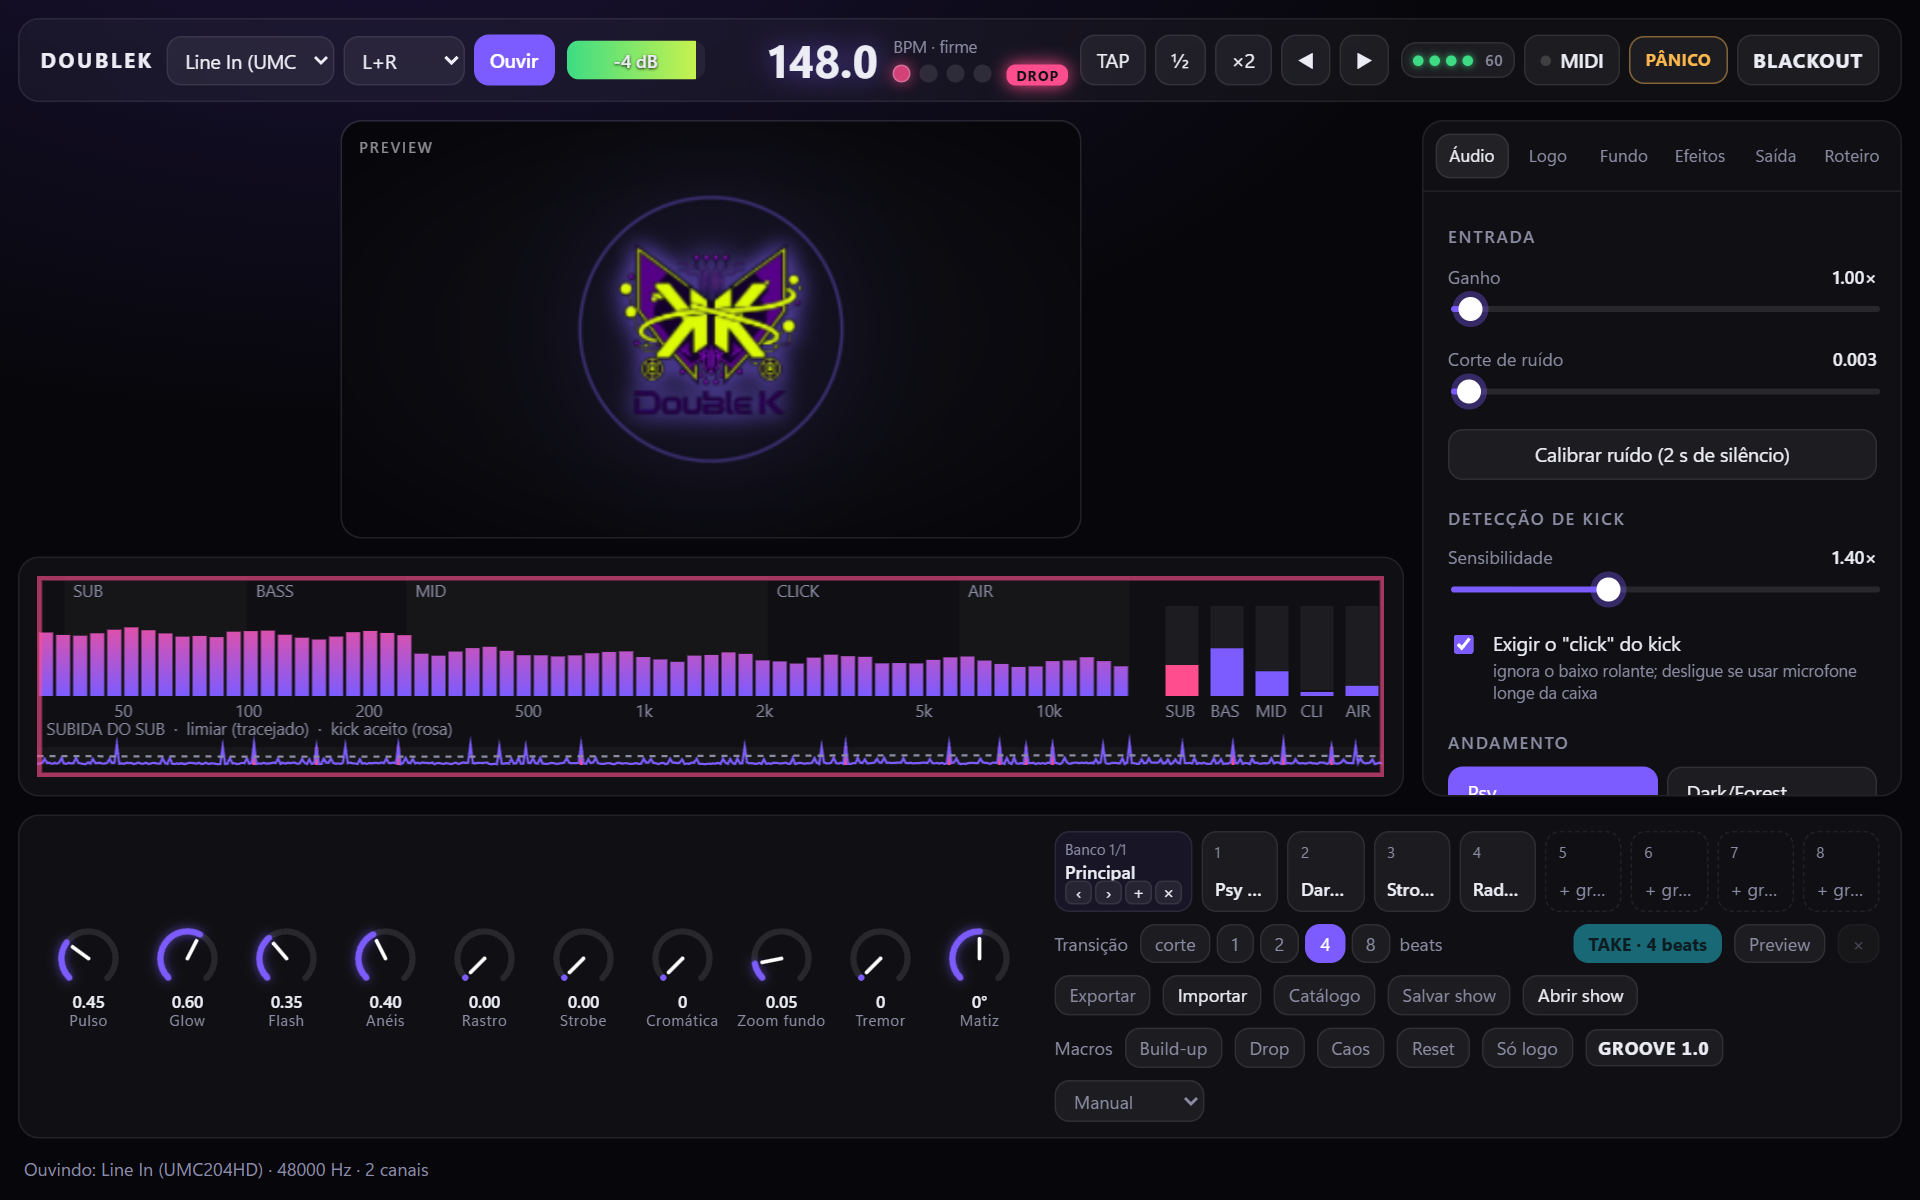
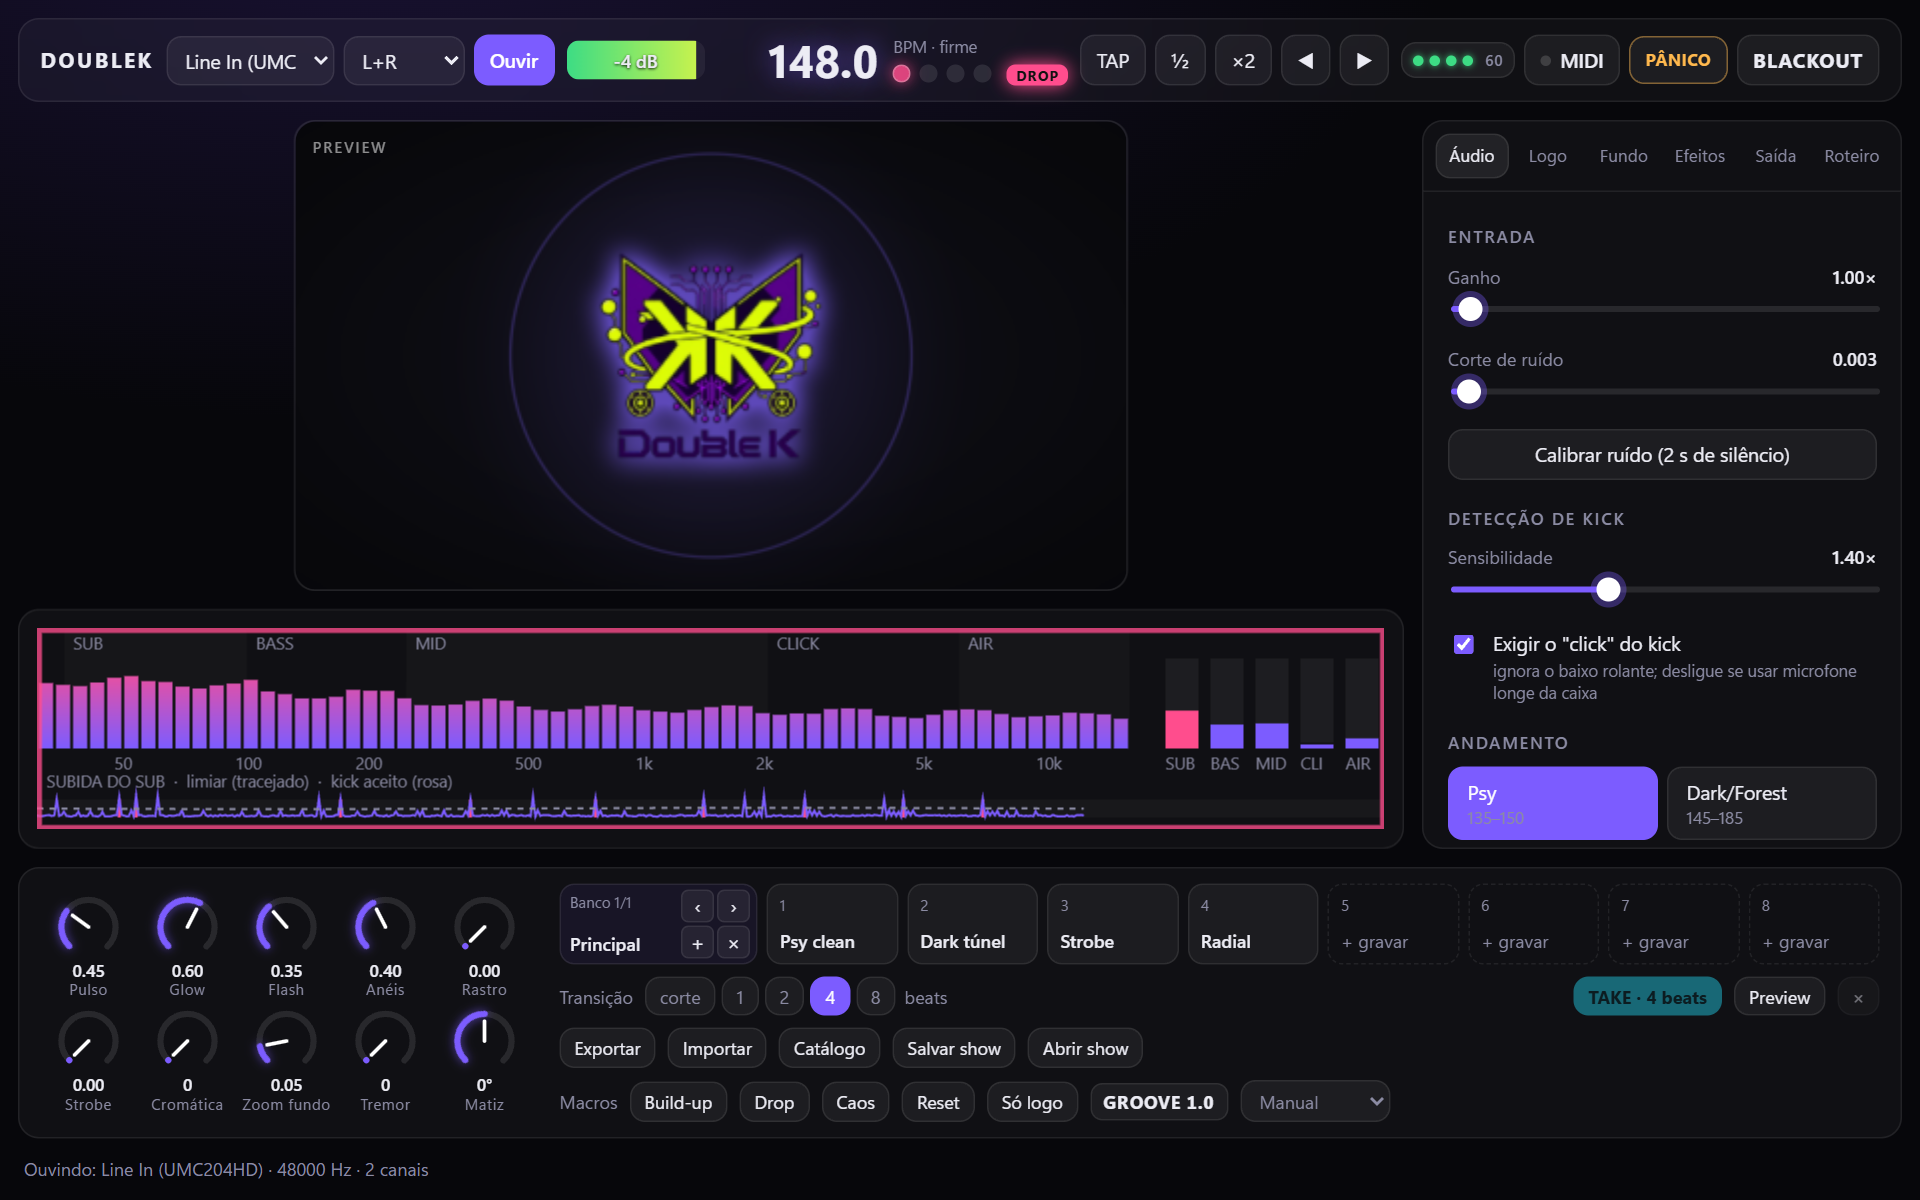
D-31: capturas da janela de controle refeitas; CHANGELOG e roadmap das decisões

diff --git a/docs/DOUBLEK_VISUALS_PLANO_AGENTICO_ROADMAP.md b/docs/DOUBLEK_VISUALS_PLANO_AGENTICO_ROADMAP.md
@@ -931,14 +931,15 @@ Regra do mantenedor (2026-10-30): "decisões marque como dívida e continue o qu
 | D-22 | Heap das janelas sobe ~200 KB/h no soak (+2,5–2,8 %/h) | **Explicado: artefato do mock + heap contado 2×** (sessão 40): o `inject.js` não soltava listeners (`__TAURI_EVENT_PLUGIN_INTERNALS__.unregisterListener`), e controle e telão (popup com opener) dividem o mesmo isolate V8. Com o mock corrigido: 200 trocas de aba +0,5 MB (ruído; antes +7,2 MB), 200 aberturas do editor ≈ 0, 40 gravações e 320 roteiros GO/STOP sem retenção (o histórico enche até o teto e fica plano). Nenhuma correção no app | **Fechada 2026-11-03** com ressalva: no soak final de 2 h (heap único, pisos por ciclo de 30 min sem os 10 min iniciais) o critério definido antes da rodada **falhou** (1,70 %/h > 1 %/h), mas a série é um degrau único no ciclo 1→2 (+220 KB) e depois plana (ciclos 2–4: +30 KB/h = 0,30 %/h; medianas caindo), consistente com buffers com teto enchendo (histórico 50, diário 200) — não é vazamento contínuo. A regra para os próximos soaks passa a ser do ciclo 2 em diante (decidida depois desta rodada, declarado no script) |
 | D-23 | Pré-show: ~~o mapa MIDI não guarda o controlador de origem~~ **feito** (sessão c4, `feat/midi-origem` @ `f090c85`, onda 9: evento `midi` traz o dispositivo, learn grava `device` opcional na v1, pré-show diz "X ocupado/desconectado com N controles"; mapas antigos caem na regra aproximada); monitor conferido por posição (DPI misto); efeito "desabilitado" não pinta amarelo | Reaprender os controles antigos | Conferir no hardware do show |
 | D-24 | Régua (onda 10): "faixa" + "drop" quebram rótulos longos em 2 linhas; o marcador mostra a fonte do PREVIEW (com cena preparada, rel/wave podem diferir do telão); Auto > 1 aparece cortado em 1 | Funciona; texto em vez de ícone por clareza | Ver com o mantenedor se incomoda na tela do notebook |
-| D-25 | Na pausa (onda 10): seletor sem MIDI learn e fora do celular (SET_PARAMETER/OSC só numéricos); com TAP ou MIDI Clock numa música cujo kick não é detectado, "respirar" trata como pausa | Sensibilidade tem learn; tutorial manda usar "seguir o beat" nesse caso | Pedido do mantenedor (comando PAUSE_MODE) ou campo no Frame dizendo de onde veio a grade |
+| D-25 | (**Fechada**: comando `PAUSE_MODE`, MIDI learn `a:pauseMode`, OSC `/doublek/v1/pause/...`, seletor no celular.) Na pausa (onda 10): seletor sem MIDI learn e fora do celular (SET_PARAMETER/OSC só numéricos); com TAP ou MIDI Clock numa música cujo kick não é detectado, "respirar" trata como pausa | Sensibilidade tem learn; tutorial manda usar "seguir o beat" nesse caso | Pedido do mantenedor (comando PAUSE_MODE) ou campo no Frame dizendo de onde veio a grade |
 | D-26 | Mapa de andamento (onda 10): rampa gradual de andamento vira trechos curtos, e os < 16 kicks são descartados (pode faltar um trecho no meio da rampa); validado só com synth | Faixa constante = idêntica a antes; troca em degrau acerta ±0,05 BPM | Música real com andamento variável (D-02) |
 | D-27 | (**Fechada na 0.3.15**: `diagJson` anonimiza cada texto do .json.) Diagnóstico (`.json` de "Salvar diagnóstico"/"Relatar problema") leva `recording.last`, caminho da última gravação, que pode conter o nome de usuário do Windows | O resumo copiado é anonimizado; o arquivo anexado não | Anonimizar o caminho no diagnóstico (só o nome do arquivo) ou avisar no relato |
 | D-28 | (**Mitigada na 0.3.14**: janela do click de 45 ms; ao vivo 77 %, grade no kick, microfone simulado 93 %.) Entrada ao vivo (microfone/placa) em psy: o detector pode travar a fase na última nota do baixo rolante (o kick real cai no refratário) e pega ~60–75 % dos kicks | `rephase` só existe na análise da faixa inteira (roteiro); ao vivo o pulso pode sair ~¼ de beat adiantado | Fase pelo perfil do grave dobrado sobre a grade nos últimos ~8 compassos, ou janela de click mais larga no beat previsto; medir com gravações reais |
 | D-29 | (**Fechada na 0.3.15**: parar antes do 1º pedaço cancela e apaga; teste `record.check.ts`.) Smoke e2e com **1 monitor** (telão por cima do controle): "Gravar → Parar em 100 ms (vertical)" deixa o `.mp4` V9x16 (3/3 vezes; com 2 monitores, na 0.3.11, passava). Reproduz com o código da 0.3.11: não é da onda 11 | Gravação vertical cancelada logo no começo pode deixar arquivo pequeno em `recordings/` | Investigar `rec.rs`/parada do encoder vertical quando o telão está no mesmo monitor; refazer o smoke com 2 monitores |
 | D-30 | (**Fechada na 0.3.15**: o teste espera o botão e o código; 0 falhas em 17 rodadas.) Smoke e2e, bloco celular: "código errado → erro na tela" falha às vezes (`text is not iterable`), 1 em 2 rodadas em 2026-11-03 | Teste instável (o código do celular não mudou desde a 0.3.10) | Esperar o texto do erro com `waitForFunction` em vez de ler na hora; rodar o bloco 10× |
-| D-31 | Imagens de `docs/img` capturadas a 1280×800 (`controle.png`, `controle-mapa.png`, `controle.gif`, `primeiro-uso.png`, `cenas.png`, talvez `midi-learn.png`, `roteiro-controle.png`) mostram os knobs em 1 fileira; na 0.3.15 ficam em 5×2 nessa largura | Só documentação | Refazer as capturas no próximo lote de docs |
-| D-32 | Celular em pé (360×640): PÂNICO termina abaixo da dobra (698 px); banco ‹ › + × com alvos de ~20×14 px na janela de controle; Exportar/Catálogo/Salvar show em cinza ao lado de botões brancos | Decisões de produto | Ver com o mantenedor |
+| D-31 | (**Fechada**, exceto `celular-retrato.png`/`celular-paisagem.png`: o Edge headless parou de abrir nesta máquina em 2026-11-04, sai com código 0 sem log.) Imagens de `docs/img` capturadas a 1280×800 (`controle.png`, `controle-mapa.png`, `controle.gif`, `primeiro-uso.png`, `cenas.png`, talvez `midi-learn.png`, `roteiro-controle.png`) mostram os knobs em 1 fileira; na 0.3.15 ficam em 5×2 nessa largura | Só documentação | Refazer as capturas no próximo lote de docs |
+| D-32 | (**Fechada** por decisão do mantenedor: PÂNICO preso no rodapé com o celular em pé; botões da linha em branco; ‹ › + × do banco em 22 px, 2×2.) Celular em pé (360×640): PÂNICO termina abaixo da dobra (698 px); banco ‹ › + × com alvos de ~20×14 px na janela de controle; Exportar/Catálogo/Salvar show em cinza ao lado de botões brancos | Decisões de produto | Ver com o mantenedor |
+| D-33 | Smoke e2e, bloco vídeo: instável com a máquina carregada ("importar" lê o status depois de "Cores do fundo" sobrescrever; "~1 seek por volta" deu 12 seeks em 8 s). Branch das decisões: 6/7 rodadas ok; 0.3.15: 3/3 | Teste instável; o caminho de vídeo não mudou | Esperar o status do import por evento/diário em vez do texto da barra; folga no limite de seeks |
 
 ### 8.6. Plano de releases (publicadas por push em `prod`)
 

diff --git a/CHANGELOG.md b/CHANGELOG.md
@@ -6,6 +6,15 @@ O formato segue o [Keep a Changelog](https://keepachangelog.com/pt-BR/1.1.0/) e 
 
 ## [Não lançado]
 
+### Adicionado
+
+- **Na pausa** pelo celular (parar, respirar ou beat), por MIDI learn (cada toque passa ao próximo modo) e por OSC (`/doublek/v1/pause/stop|breathe|beat`).
+
+### Mudou
+
+- Celular em pé: o **PÂNICO** fica preso no rodapé da tela e não some ao rolar.
+- Janela de controle: Exportar, Catálogo e Salvar show em branco como os outros botões (o cinza parecia desligado); os botões ‹ › + × do banco ficam maiores (22 px, em 2×2 ao lado do nome).
+
 ## [0.3.15] - 2026-11-04
 
 ### Mudou
